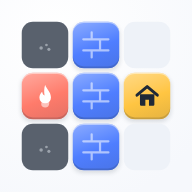
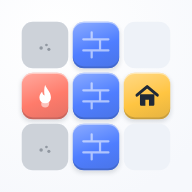
Burning Land: author's home art, lighter ash, level 4 regression test
- home screen: author's art with the drawn button cropped, real «Играть»
- ash: --ui-surface-muted with 16% --ui-text, a shade darker than an empty
  cell (author decision 2026-09-27); sketch, brand images and spec updated
- tests: level 4 stays winnable after the author's first move V f7 g7 f6

Claude-Session: https://claude.ai/code/session_011TqExuvVHawtJASCHaF1P6

Changed region(s): [[0.0938, 0.625, 0.375, 0.9062], [0.0938, 0.0938, 0.375, 0.375]]

diff --git a/apps/burning-land/src/styles.css b/apps/burning-land/src/styles.css
@@ -97,13 +97,17 @@ svg { display: block; }
 .c-blue { --c: var(--ui-blue); }
 .c-green { --c: var(--ui-success); }
 
-/* ---------- главный: мини-поле, название и живая кнопка (арта автора пока нет) ---------- */
-.home { align-items: center; justify-content: center; overflow: hidden; }
-.home-hero { flex: 1; min-height: 0; display: flex; flex-direction: column; align-items: center; justify-content: center; gap: var(--ui-space-4); text-align: center; animation: art-in 480ms cubic-bezier(.2,.8,.2,1) both; }
-.home-hero h1 { font-size: 40px; font-weight: 700; line-height: 1.1; }
-.home-hero p { font-size: 17px; color: var(--ui-text-muted); line-height: 1.45; }
-.home-board { --cell: min(52px, 11vw, 7dvh); display: grid; grid-template-columns: repeat(5, var(--cell)); gap: 6px; padding: 10px; border-radius: var(--ui-radius-card); background: var(--ui-surface); box-shadow: var(--ui-shadow-card); transform: rotate(-4deg); }
-.hc { position: relative; width: var(--cell); height: var(--cell); border-radius: 24%; background: var(--ui-surface-muted); }
+/* ---------- главный: арт во весь экран и живая кнопка ---------- */
+.home { align-items: center; justify-content: center; overflow: hidden; background: var(--ui-background); padding: env(safe-area-inset-top) 0 0; }
+.home > * { position: relative; z-index: 1; }
+.home .home-bg { position: absolute; inset: -60px; z-index: 0; background: linear-gradient(var(--ui-background) 8%, transparent 40%), var(--art) center 80% / cover no-repeat; filter: blur(36px) saturate(1.1); opacity: .35; transform: scale(1.2); }
+.home-art { width: 100%; max-width: 480px; height: auto; max-height: calc(100dvh - 130px - env(safe-area-inset-top) - env(safe-area-inset-bottom)); min-height: 0; flex: 0 1 auto; object-fit: contain; object-position: bottom;
+  /* Низ и края растворяются в размытой копии: на любом экране нет видимой рамки. */
+  -webkit-mask-image: linear-gradient(transparent, #000 9%, #000 80%, transparent), linear-gradient(90deg, transparent, #000 10%, #000 90%, transparent);
+  -webkit-mask-composite: source-in;
+  mask-image: linear-gradient(transparent, #000 9%, #000 80%, transparent), linear-gradient(90deg, transparent, #000 10%, #000 90%, transparent);
+  mask-composite: intersect;
+  animation: art-in 480ms cubic-bezier(.2,.8,.2,1) both; }
 @keyframes art-in { from { opacity: 0; transform: translateY(-10px); } }
 
 /* Кнопка «Play» как на арте: пилюля, крупный текст. Дышит, светится и раз в
@@ -196,7 +200,7 @@ svg { display: block; }
 .tile.wall { --c: var(--ui-blue); }
 .tile.wall svg { width: 72%; height: 72%; }
 .tile.house { --c: var(--ui-yellow); color: var(--ui-text); }
-.ash { position: absolute; inset: 0; z-index: 1; border-radius: 24%; background: color-mix(in srgb, var(--ui-text) 72%, var(--ui-surface-muted)); display: grid; place-items: center; color: color-mix(in srgb, var(--ui-text) 40%, var(--ui-surface-muted)); }
+.ash { position: absolute; inset: 0; z-index: 1; border-radius: 24%; background: color-mix(in srgb, var(--ui-text) 16%, var(--ui-surface-muted)); display: grid; place-items: center; color: color-mix(in srgb, var(--ui-text) 45%, var(--ui-surface-muted)); }
 .ash svg { width: 50%; height: 50%; }
 .glow { position: absolute; inset: 0; z-index: 2; border-radius: 24%; background: color-mix(in srgb, var(--ui-green) 70%, transparent); opacity: 0; pointer-events: none; }
 

diff --git a/apps/burning-land/src/ui/screens.ts b/apps/burning-land/src/ui/screens.ts
@@ -1,32 +1,22 @@
 import { LEVELS } from '../levels/levels.ts';
+import art from '@ui/prototypes/burning-land/assets/home-art.webp';
 import { houseCells, parseCells } from '../engine/fireEngine.ts';
 import { glyph, icon } from './icons.ts';
 import { currentLevel, isUnlocked, loadProgress } from './storage.ts';
 
 export type Go = (route: string) => void;
 
-// Мини-поле главного экрана (§7.1: арта автора пока нет): огонь, пепел, стена и дома.
-const HOME_BOARD = ['x.#HH', 'Fx#..', 'xF#.H', 'Fx##.', '.F...'];
-
 export function homeScreen(go: Go): HTMLElement {
   const el = document.createElement('main');
   el.className = 'screen home';
   el.dataset['testid'] = 'home';
-  const cells = [...HOME_BOARD.join('')]
-    .map((ch) => {
-      if (ch === 'F') return `<div class="hc"><div class="tile fire">${glyph.flame}</div></div>`;
-      if (ch === 'x') return `<div class="hc"><div class="ash">${glyph.ember}</div></div>`;
-      if (ch === '#') return `<div class="hc"><div class="tile wall">${glyph.brick}</div></div>`;
-      if (ch === 'H') return `<div class="hc"><div class="tile house">${glyph.house}</div></div>`;
-      return '<div class="hc"></div>';
-    })
-    .join('');
+  // Арт первого экрана автора (§7.1): название, поле с огнём, стенами и домами.
+  // Низ арта растворяется в размытой копии; кнопка — настоящая, под артом.
+  el.style.setProperty('--art', `url("${art}")`);
   el.innerHTML = `
-    <div class="home-hero">
-      <div class="home-board" aria-hidden="true">${cells}</div>
-      <h1>Burning Land</h1>
-      <p>Запри огонь стенами.<br>Спаси все дома.</p>
-    </div>
+    <div class="home-bg" aria-hidden="true"></div>
+    <img class="home-art" src="${art}" alt="" width="941" height="1340">
+    <h1 class="sr-only">Burning Land</h1>
     <button class="play-btn" data-testid="play">Играть</button>`;
   el.querySelector('[data-testid="play"]')?.addEventListener('click', () => go('#/levels'));
   return el;

diff --git a/apps/burning-land/tests/levels.test.ts b/apps/burning-land/tests/levels.test.ts
@@ -1,5 +1,5 @@
 import { describe, expect, it } from 'vitest';
-import { GAME_LEVELS, greedyFront, greedyHouse, isTrapPick, solve, tutorialPick, winsWithoutWalls, type Move, type SolverLevel } from '../../../tools/burning-land-solver.mjs';
+import { GAME_LEVELS, parse, greedyFront, greedyHouse, isTrapPick, solve, tutorialPick, winsWithoutWalls, type Move, type SolverLevel } from '../../../tools/burning-land-solver.mjs';
 import { anyFits, cellOf, createState, fits, cellsAt, place, rotateSlot, skipTurn, trayOf } from '../src/engine/fireEngine.ts';
 import { LEVELS } from '../src/levels/levels.ts';
 import type { GameState, Level } from '../src/engine/types.ts';
@@ -93,6 +93,15 @@ describe('уровни (§6)', () => {
       expect(isTrapPick(lvl)).not.toBeNull();
     });
   }
+
+  // Показ автору 2026-09-27: первый ход V f7 g7 f6 на уровне 4 — победа ещё есть.
+  it('BL-4-17: после V f7 g7 f6 победа остаётся (I f5 f4 f3, затем I f2 g2 h2…)', () => {
+    const lvl = asSolver(LEVELS[3] as Level);
+    const s = play(LEVELS[3] as Level, [{ letter: 'V', rot: 0, row: 1, col: 5, cells: [13, 14, 21], slot: 0 }]);
+    expect(s.status).toBe('playing');
+    const grid = parse({ ...lvl, rows: Array.from({ length: 8 }, (_, r) => s.cells.slice(r * 8, r * 8 + 8).map((k) => ({ grass: '.', wall: 'W', fire: 'F', ash: 'x', house: 'H' })[k]).join('')) });
+    expect(solve(lvl, { from: grid, turn: 1 }).solvable).toBe(true);
+  });
 
   it('индексы клеток совпадают с солвером (row * 8 + col)', () => {
     expect(cellOf(13)).toEqual({ row: 1, col: 5 });

diff --git a/UI Design/prototypes/burning-land/mockup.html b/UI Design/prototypes/burning-land/mockup.html
@@ -39,8 +39,8 @@
   .wall svg { width: 70%; height: 70%; }
   .house { --c: var(--ui-yellow); color: var(--ui-text); }
   .stone { --c: var(--ui-text-muted); }
-  .ash { position: absolute; inset: 0; border-radius: 24%; background: color-mix(in srgb, var(--ui-text) 72%, var(--ui-surface-muted)); display: grid; place-items: center; }
-  .ash svg { width: 50%; height: 50%; color: color-mix(in srgb, var(--ui-text) 40%, var(--ui-surface-muted)); }
+  .ash { position: absolute; inset: 0; border-radius: 24%; background: color-mix(in srgb, var(--ui-text) 16%, var(--ui-surface-muted)); display: grid; place-items: center; }
+  .ash svg { width: 50%; height: 50%; color: color-mix(in srgb, var(--ui-text) 45%, var(--ui-surface-muted)); }
   .ghost { position: absolute; inset: 0; border-radius: 24%; background: color-mix(in srgb, var(--ui-blue) 28%, transparent); outline: 2.5px dashed var(--ui-blue); outline-offset: -2px; }
   .tray { display: grid; grid-template-columns: repeat(3, 1fr); gap: 10px; }
   .slot { height: 92px; border-radius: var(--ui-radius-card); background: var(--ui-surface); box-shadow: var(--ui-shadow-soft); display: grid; place-items: center; position: relative; }

diff --git a/apps/burning-land/tools/brand.html b/apps/burning-land/tools/brand.html
@@ -17,7 +17,7 @@
   .fire { --c: var(--ui-coral); }
   .wall svg { width: 72%; height: 72%; }
   .house { --c: var(--ui-yellow); color: var(--ui-text); }
-  .ash { position: absolute; inset: 0; border-radius: 24%; background: color-mix(in srgb, var(--ui-text) 72%, var(--ui-surface-muted)); display: grid; place-items: center; color: color-mix(in srgb, var(--ui-text) 40%, var(--ui-surface-muted)); }
+  .ash { position: absolute; inset: 0; border-radius: 24%; background: color-mix(in srgb, var(--ui-text) 16%, var(--ui-surface-muted)); display: grid; place-items: center; color: color-mix(in srgb, var(--ui-text) 45%, var(--ui-surface-muted)); }
   .ash svg { width: 50%; height: 50%; }
 
   #icon { width: 512px; height: 512px; background: radial-gradient(90% 90% at 30% 20%, #fff, var(--ui-background)); display: flex; align-items: center; justify-content: center; }

diff --git a/specs/11-burning-land.md b/specs/11-burning-land.md
@@ -528,8 +528,8 @@ type Action =
   сразу, пока фигура висит призраком над полем: клетки под призраком теряют
   точку, а если призрак запирает огонь, точки гаснут все. Под шапкой — «Ход
   `N`» и «Дома `K/K`».
-- **Огонь:** фронт — коралловый тайл с пламенем, пепел — тёмная плоская
-  клетка без объёма. Стена — синий тайл с кладкой. Дом — жёлтый тайл с
+- **Огонь:** фронт — коралловый тайл с пламенем, пепел — плоская клетка
+  без объёма, чуть темнее пустой, с угольками. Стена — синий тайл с кладкой. Дом — жёлтый тайл с
   домиком.
 - **Победа — payoff:** последняя стена встаёт, оставшийся огонь гаснет в
   пепел, затем волна подсветки бежит по всей траве, отрезанной от огня, от
@@ -584,16 +584,17 @@ type Action =
 руке и какие придут следом. Payoff — на поле: контур стен и трава за ним.
 
 **Второй канал к цвету.** Огонь — пламя, дом — домик, стена — кладка,
-пепел — плоская тёмная клетка без объёма, превью — точка, призрак —
+пепел — плоская клетка без объёма с угольками, превью — точка, призрак —
 пунктир. Всё различимо без цвета.
 
 **Цвета** — только токены кита: огонь и превью `--ui-coral`, стена и
-призрак `--ui-blue`, дом `--ui-yellow`, пепел — смесь `--ui-text` с
-`--ui-surface-muted`, волна победы `--ui-green`, `--ui-danger` только в
+призрак `--ui-blue`, дом `--ui-yellow`, пепел — `--ui-surface-muted` с 16%
+`--ui-text`, чуть темнее пустой клетки (решение автора 2026-09-27), волна победы `--ui-green`, `--ui-danger` только в
 попапе поражения. Новых цветов, радиусов и теней нет.
 
-Главный экран — пока без арта автора: название, стилизованное поле с огнём
-и домами из тайлов кита, кнопка «Играть» по `apps/CLAUDE.md`. Экран уровней
+Главный экран — арт автора `UI Design/prototypes/burning-land/assets/home-screen.png`
+(решение автора 2026-09-27) с настоящей кнопкой «Играть» поверх обрезанной
+нарисованной, по `apps/CLAUDE.md`. Экран уровней
 и попапы как у `apps/arrow-flip`.
 
 ## 7.2. Анимация

diff --git a/UI Design/prototypes/burning-land/README.md b/UI Design/prototypes/burning-land/README.md
@@ -9,12 +9,15 @@
 - `mockup.html` — исходник скетча. Пересобрать PNG:
   `headless_shell --window-size=390,720 --force-device-scale-factor=2 --screenshot=game-screen.png mockup.html`.
 
+- `assets/home-screen.png` — арт автора для главного экрана, `assets/home-art.webp` —
+  он же без нарисованной кнопки «Играть» (обрезан по 1340 px); в игре кнопка настоящая.
+
 Новые объекты собраны из тайла кита «Обычный» и токенов:
 
 | Объект | Цвет | Второй канал |
 |---|---|---|
 | Огонь (фронт) | `--ui-coral` | пламя |
-| Пепел | смесь `--ui-text` с `--ui-surface-muted`, без объёма | плоская клетка, уголёк |
+| Пепел | `--ui-surface-muted` с 16% `--ui-text` — чуть темнее пустой клетки, без объёма (решение автора 2026-09-27) | плоская клетка, угольки |
 | Стена | `--ui-blue` | кладка |
 | Дом | `--ui-yellow` | домик |
 | Превью шага огня | `--ui-coral`, полупрозрачная точка | точка |
